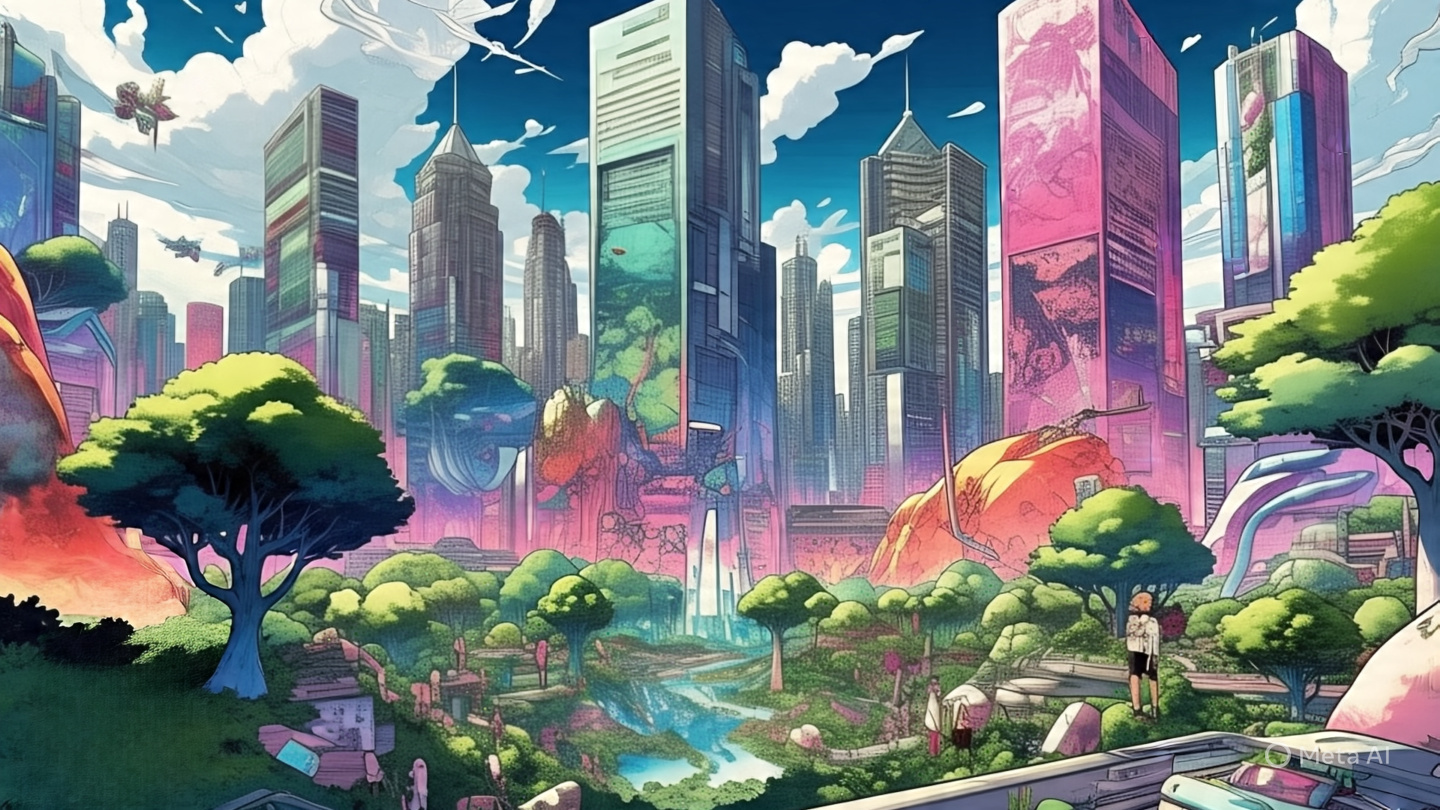
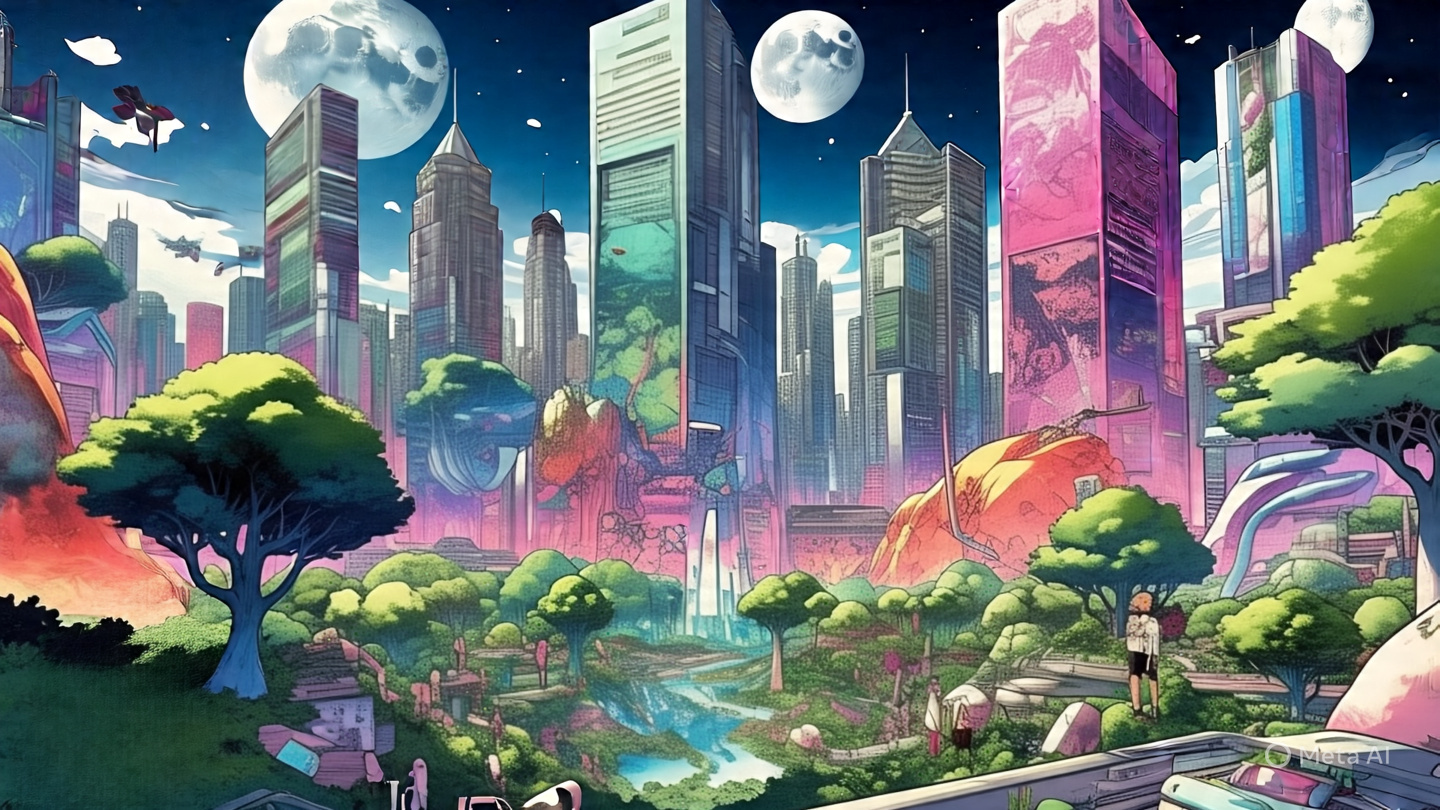
background

diff --git a/src/components/auth/SignupForm.tsx b/src/components/auth/SignupForm.tsx
@@ -120,7 +120,7 @@ const SignupForm = ({ onSwitchToLogin }: SignupFormProps) => {
     <div className="relative h-screen w-full overflow-hidden">
       {/* Full-screen background */}
       <div className="absolute inset-0 bg-cover bg-center" style={{ 
-        backgroundImage: "url('/auth-background2.jpeg')",
+        backgroundImage: "url('/auth-background.jpeg')",
         backgroundSize: 'cover'
       }} />
       

diff --git a/src/components/auth/LoginForm.tsx b/src/components/auth/LoginForm.tsx
@@ -123,7 +123,7 @@ const LoginForm = ({ onSwitchToSignup }: LoginFormProps) => {
     <div className="relative h-screen w-full overflow-hidden">
       {/* Full-screen background */}
       <div className="absolute inset-0 bg-cover bg-center" style={{ 
-        backgroundImage: "url('/auth-background2.jpeg')",
+        backgroundImage: "url('/auth-background.jpeg')",
         backgroundSize: 'cover'
       }} />
       
